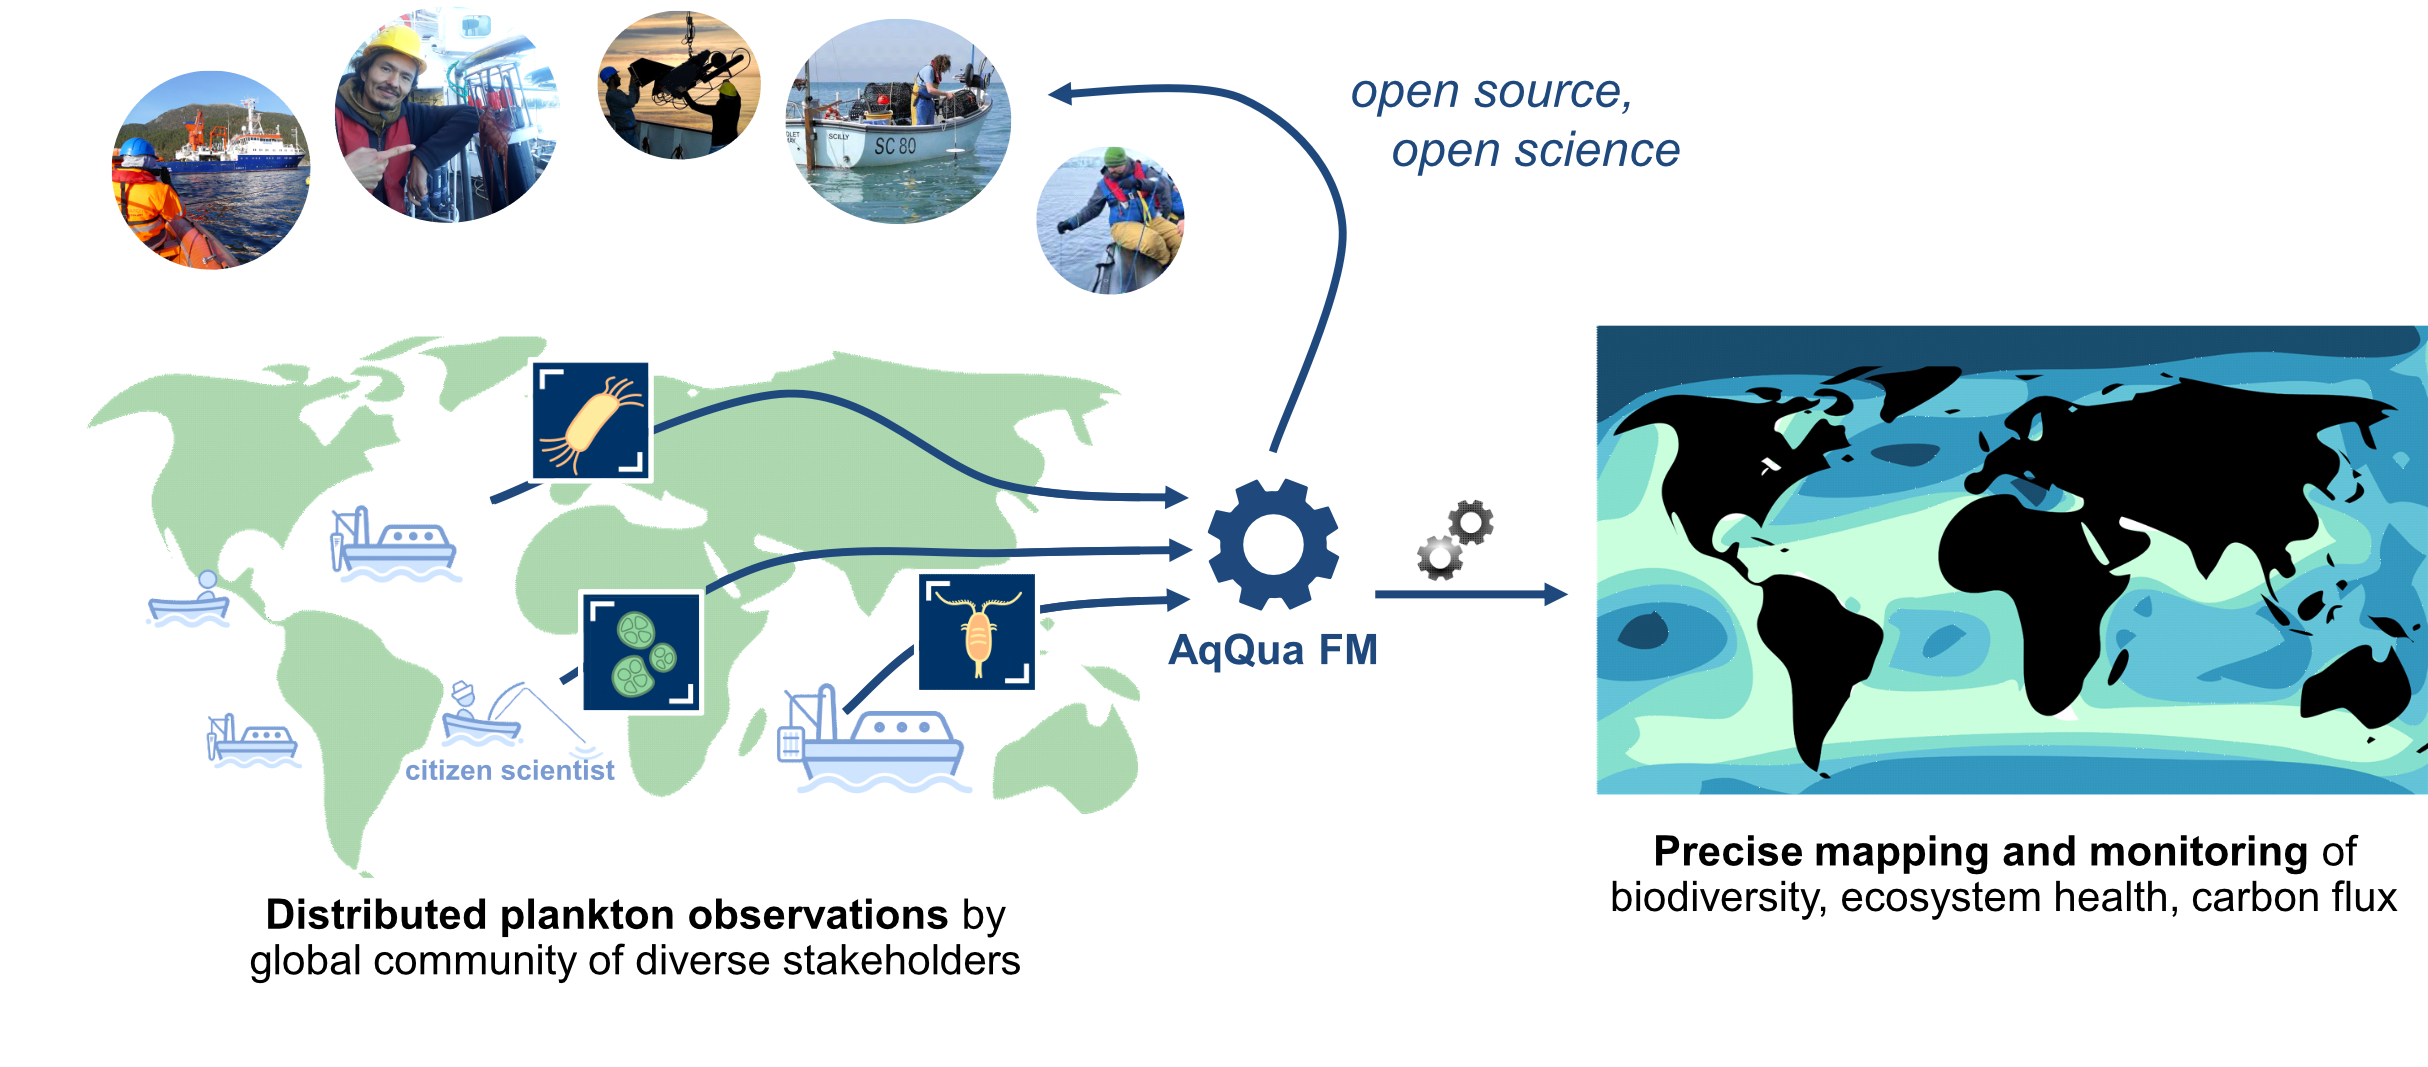
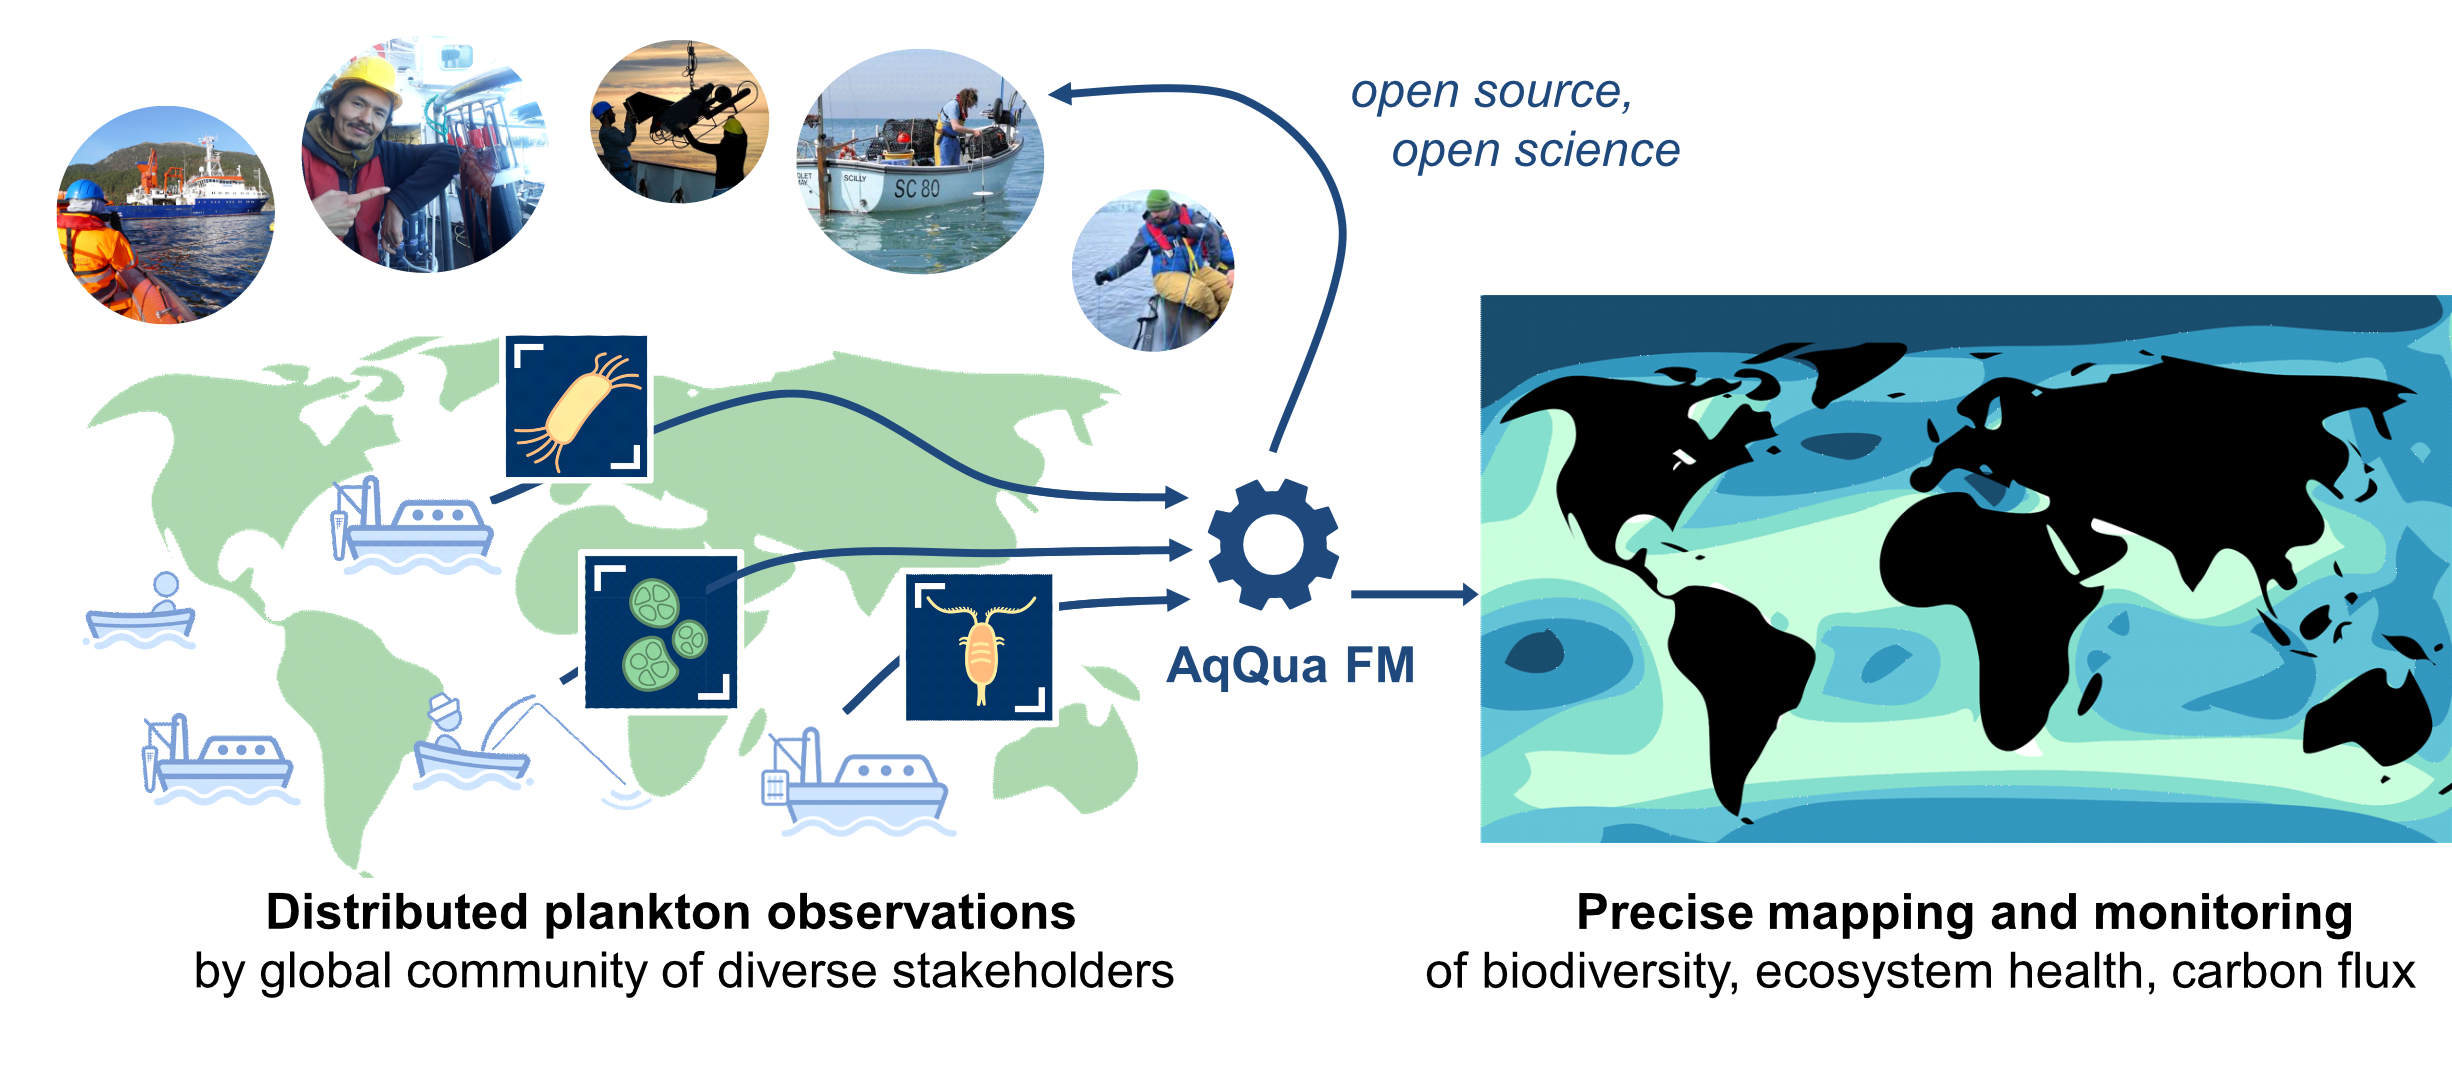
index.md revamped for general audience

diff --git a/index.md b/index.md
@@ -4,8 +4,13 @@ title: Home
 filename: index
 ---
 
-**AqQua seeks to create the first foundational pelagic imaging model by consolidating billions of images from diverse aquatic environments around the globe. These images capture a vast range of plankton species and organic particles and hold key insights into biodiversity and ecosystem health. By developing an AI model capable of classifying species, extracting biological traits, and estimating organic carbon content, AqQua will provide critical data necessary for understanding the biological carbon pump — a natural process that sequesters vast amounts of carbon from the atmosphere, significantly affecting global climate.**
+**Each day, millions of images of plankton images are acquired by researchers around the globe. Each individual data point provides information about biodiversity, functioning of aquatic foodwebs and ecosystem status of the related water body.** 
 
-Distributed pelagic imaging techniques enable the sustained observation of aquatic life and its debris, comprehensively covering the earth’s water bodies down to the bottom of the deep sea. Each day, millions of images of plankton and associated environmental data are acquired by researchers around the globe using a variety of devices. Each individual data point provides information about biodiversity, functioning of aquatic foodwebs and ecosystem status of the related water body as well as its role in carbon sequestration. The Aquatic Life Foundation Project (AqQua) will leverage Europe's first exascale HPC to build a foundational pelagic model training on billions of images acquired with a variety of devices. Fine-tuned for species classification, trait extraction and particulate organic carbon estimation, our foundation model will be distilled and deployed to the global community as a resource-efficient, easily usable tool. With this model we will establish global maps of species biodiversity, ecosystem status, and carbon flux at unprecedented accuracy and granularity, generating a fundamental understanding of marine and freshwater life in times of global change to aid decision making, in particular with respect to emerging ocean-bound carbon dioxide removal technologies. <br>
+![Plankton imaging schematic](./assets/Landing_page_schematic.jpg)
+
+**AqQua will leverage Europe's first exascale HPC to create the first foundational pelagic imaging model, consolidating billions of images from aquatic environments around the globe.**  
+
+**AqQua will provide critical data necessary for understanding the biological carbon pump — a natural process that sequesters vast amounts of carbon from the atmosphere and significantly affecting global climate.**
+
 
 AqQua is a Pilot Project in the [Helmholtz Foundation Model Initiative](https://hfmi.helmholtz.de).
